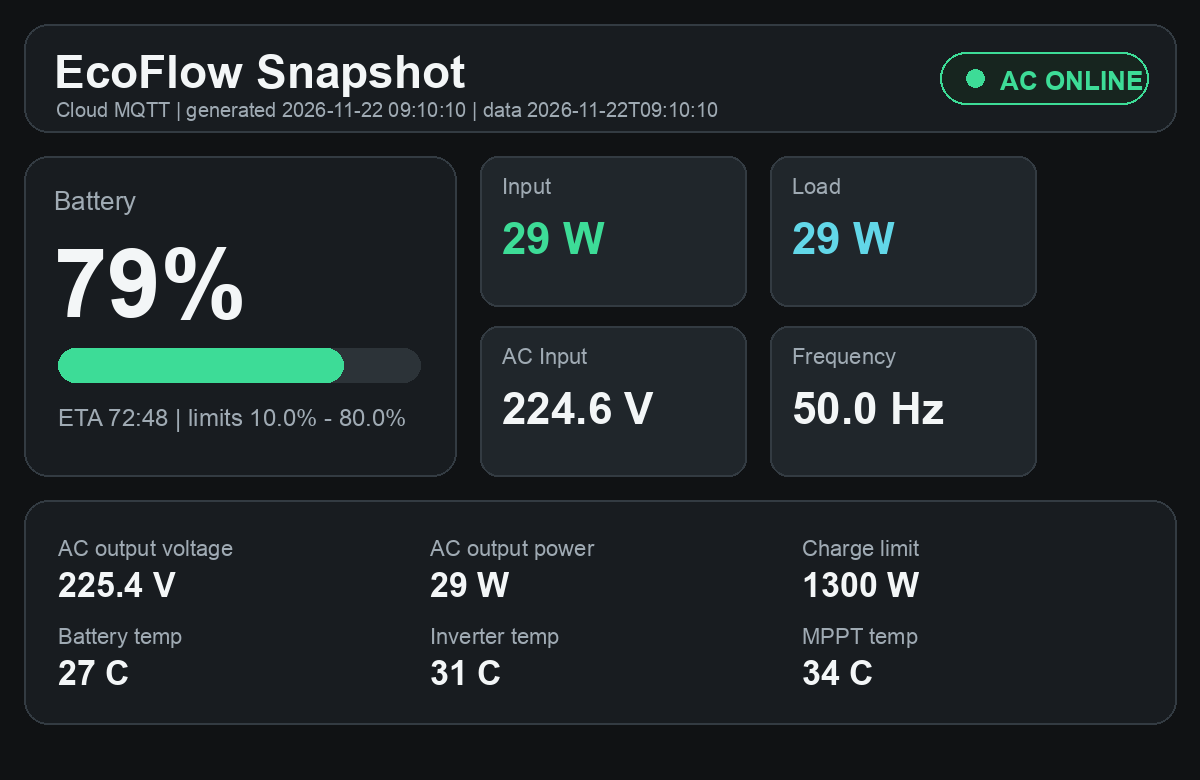
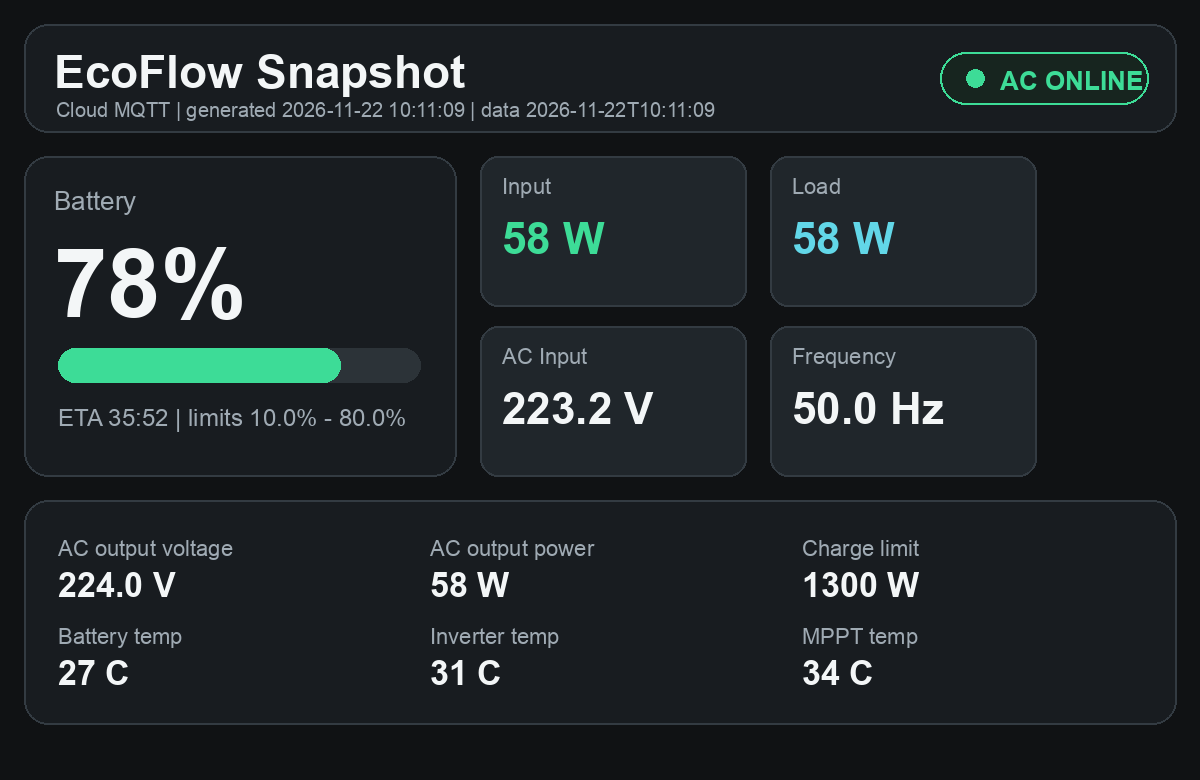
Update EcoFlow dashboard 2026-11-22 10:11:10

diff --git a/index.html b/index.html
@@ -75,7 +75,7 @@
       overflow: hidden;
       margin-top: 14px;
     }
-    .fill { width: 79%; height: 100%; background: linear-gradient(90deg, var(--green), var(--cyan)); }
+    .fill { width: 78%; height: 100%; background: linear-gradient(90deg, var(--green), var(--cyan)); }
     .cards {
       display: grid;
       grid-template-columns: repeat(4, minmax(0, 1fr));
@@ -177,7 +177,7 @@
   <header>
     <div>
       <h1>EcoFlow Snapshot</h1>
-      <div class="sub">Cloud MQTT · generated 2026-11-22T09:10:10 · data 2026-11-22T09:10:10</div>
+      <div class="sub">Cloud MQTT · generated 2026-11-22T10:11:09 · data 2026-11-22T10:11:09</div>
     </div>
     <div class="status online"><span class="dot"></span><span>AC online</span></div>
   </header>
@@ -187,22 +187,22 @@
   <div class="grid">
     <section>
       <h2>Battery</h2>
-      <div class="value">79%</div>
+      <div class="value">78%</div>
       <div class="battery"><div class="fill"></div></div>
-      <div class="row"><span>ETA</span><span>72:48</span></div>
+      <div class="row"><span>ETA</span><span>35:52</span></div>
       <div class="row"><span>SOC limits</span><span>10.0% - 80.0%</span></div>
     </section>
     <section>
       <h2>AC</h2>
-      <div class="row"><span>Input voltage</span><span>224.6 V</span></div>
+      <div class="row"><span>Input voltage</span><span>223.2 V</span></div>
       <div class="row"><span>Input frequency</span><span>50.0 Hz</span></div>
-      <div class="row"><span>Output voltage</span><span>225.4 V</span></div>
+      <div class="row"><span>Output voltage</span><span>224.0 V</span></div>
     </section>
   </div>
 
   <div class="cards">
-    <div class="card"><span class="label">Input</span><span class="value">29 W</span></div>
-    <div class="card"><span class="label">Load</span><span class="value">29 W</span></div>
+    <div class="card"><span class="label">Input</span><span class="value">58 W</span></div>
+    <div class="card"><span class="label">Load</span><span class="value">58 W</span></div>
     <div class="card"><span class="label">Battery temp</span><span class="value">27°C</span></div>
     <div class="card"><span class="label">Inverter temp</span><span class="value">31°C</span></div>
   </div>
@@ -217,7 +217,7 @@
         <div class="daily-item"><span class="label">Зарядний ліміт</span><strong>1300 W</strong><small>пік входу 484 W · 37% ліміту</small></div>
         <div class="daily-item"><span class="label">Заряджання</span><strong>0 сек</strong><small>--</small></div>
         <div class="daily-item"><span class="label">Розряджання</span><strong>0 сек</strong><small>--</small></div>
-        <div class="daily-item"><span class="label">Енергія вхід / вихід</span><strong>65 Wh / 65 Wh</strong><small>оцінка за sample-ами</small></div>
+        <div class="daily-item"><span class="label">Енергія вхід / вихід</span><strong>66 Wh / 66 Wh</strong><small>оцінка за sample-ами</small></div>
         <div class="daily-item"><span class="label">Частота min / max</span><strong>50.0 Hz / 50.0 Hz</strong><small>21.11 11:01 / 21.11 11:01</small></div>
       </div>
     </section>
@@ -249,24 +249,24 @@
   &quot;ok&quot;: true,
   &quot;source&quot;: &quot;Cloud MQTT&quot;,
   &quot;device&quot;: &quot;DELTA Pro&quot;,
-  &quot;timestamp&quot;: &quot;2026-11-22T09:10:10&quot;,
+  &quot;timestamp&quot;: &quot;2026-11-22T10:11:09&quot;,
   &quot;grid&quot;: true,
   &quot;battery&quot;: {
-    &quot;soc&quot;: 79,
+    &quot;soc&quot;: 78,
     &quot;min&quot;: 10.0,
     &quot;max&quot;: 80.0,
-    &quot;eta&quot;: &quot;72:48&quot;
+    &quot;eta&quot;: &quot;35:52&quot;
   },
   &quot;power&quot;: {
-    &quot;in&quot;: 29,
-    &quot;out&quot;: 29,
-    &quot;acOut&quot;: 29,
+    &quot;in&quot;: 58,
+    &quot;out&quot;: 58,
+    &quot;acOut&quot;: 58,
     &quot;chargeLimit&quot;: 1300
   },
   &quot;ac&quot;: {
-    &quot;inputVoltage&quot;: 224.597,
+    &quot;inputVoltage&quot;: 223.225,
     &quot;inputFreq&quot;: 50.0,
-    &quot;outputVoltage&quot;: 225.385
+    &quot;outputVoltage&quot;: 224.007
   },
   &quot;temps&quot;: {
     &quot;battery&quot;: 27,
@@ -391,16 +391,16 @@
   ],
   &quot;telemetry&quot;: {
     &quot;window&quot;: &quot;24h&quot;,
-    &quot;sample_count&quot;: 18,
+    &quot;sample_count&quot;: 19,
     &quot;from&quot;: &quot;2026-11-21T11:01:25&quot;,
-    &quot;to&quot;: &quot;2026-11-22T09:10:10&quot;,
+    &quot;to&quot;: &quot;2026-11-22T10:11:09&quot;,
     &quot;latest&quot;: {
       &quot;mode&quot;: &quot;idle&quot;,
       &quot;grid&quot;: true,
-      &quot;soc&quot;: 79.0,
-      &quot;ac_v&quot;: 224.597,
-      &quot;in_w&quot;: 29.0,
-      &quot;out_w&quot;: 29.0,
+      &quot;soc&quot;: 78.0,
+      &quot;ac_v&quot;: 223.225,
+      &quot;in_w&quot;: 58.0,
+      &quot;out_w&quot;: 58.0,
       &quot;charge_limit_w&quot;: 1300.0
     },
     &quot;voltage&quot;: {
@@ -446,16 +446,16 @@
       },
       &quot;charge_limit_w&quot;: 1300.0,
       &quot;max_input_pct_of_current_limit&quot;: 37,
-      &quot;input_wh_est&quot;: 65.1,
-      &quot;load_wh_est&quot;: 65.1
+      &quot;input_wh_est&quot;: 66.5,
+      &quot;load_wh_est&quot;: 66.5
     },
     &quot;modes&quot;: {
       &quot;charging_sec&quot;: 0,
       &quot;discharging_sec&quot;: 0,
-      &quot;idle_sec&quot;: 3060,
+      &quot;idle_sec&quot;: 3240,
       &quot;charging&quot;: &quot;0 сек&quot;,
       &quot;discharging&quot;: &quot;0 сек&quot;,
-      &quot;idle&quot;: &quot;51 хв&quot;,
+      &quot;idle&quot;: &quot;54 хв&quot;,
       &quot;last_charging&quot;: null,
       &quot;last_discharging&quot;: null
     }
